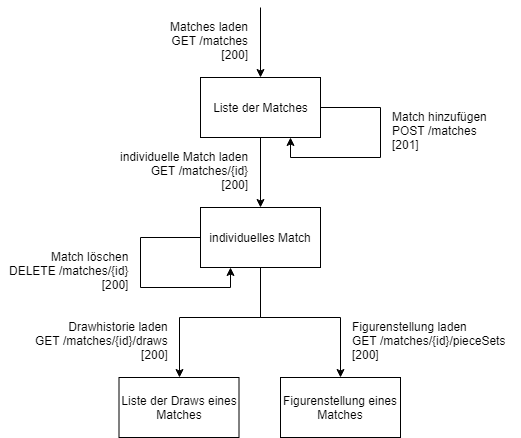
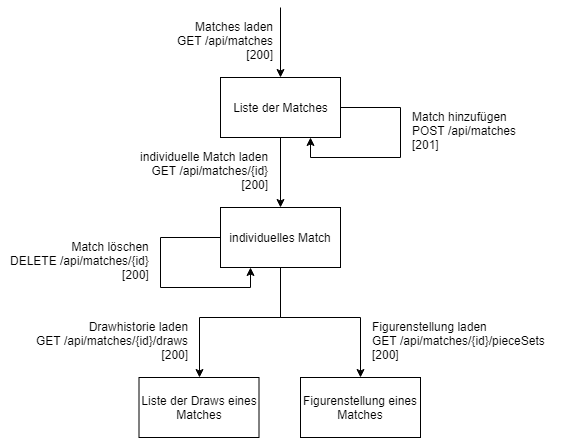
Replace controller images (replace URIs) + Fix chapter references

diff --git a/doc/diploma/content/4-Konception-Server.tex b/doc/diploma/content/4-Konception-Server.tex
@@ -36,11 +36,11 @@ Die einzelnen Zugriffe auf die Ressourcen werden in den \hyperref[sec:rootContro
 Etwaige Requestparameter sollen in dem Format \gls{JSON} oder x-www-form-urlencode mitgeschickt werden können. Die gesendeten Anfragen sollen ihr Feedback je nach Wunsch, via Content Negotiation, entweder in \gls{JSON} oder in \gls{XML} zurücksenden. Dabei sollen drei Strategien bereitgestellt werden, entweder mittels Suffix, einem URL-Parameter oder dem \gls{HTTP} Accept-Header. 
 
 \subsection{Root Controller}\label{sec:rootController}
-Mithilfe des Root Controllers soll der Einstiegspunkt an der \gls{URI} \code{/api} bereitgestellt werden. Ein GET-Request an diesem Einstiegspunkt soll aber ausschließlich die Links der einzelnen Ressourcenpunkte zurückgeben, welche wiederum der Umsetzung des Konzeptes HATEOAS dienen sollen. Im \hyperref[sec:konceptHATEOAS]{Kapitel~\ref{sec:konceptHATEOAS}} wird dabei genauer Definiert wie das Ziel von HATEOAS erreicht werden soll.\\
+Mithilfe des Root Controllers soll der Einstiegspunkt an der \gls{URI} \code{/api} bereitgestellt werden. Ein GET-Request an diesem Einstiegspunkt soll aber ausschließlich die Links der einzelnen Ressourcenpunkte zurückgeben, welche wiederum der Umsetzung des Konzeptes HATEOAS dienen sollen. Im \hyperref[sec:konzeptHATEOAS]{Kapitel~\ref{sec:konzeptHATEOAS}} wird dabei genauer Definiert wie das Ziel von HATEOAS erreicht werden soll.\\
 \\
-Die \hyperref[fig:rootController]{Abbildung~\ref{fig:rootController}} soll als Veranschaulichung des Einstiegspunktes dienen.
+Die nachfolgende \hyperref[fig:rootController]{Abbildung~\ref{fig:rootController}} soll dabei als Veranschaulichung des Einstiegspunktes dienen.
 \begin{figure}[htb]
-	\includegraphics[width=0.28\textwidth]{images/root-controller.png}
+	\includegraphics[width=0.266\textwidth]{images/root-controller.png}
 	\caption{Root Controller - Übersicht der Einstiegspunkte}
 	\label{fig:rootController}
 \end{figure}
@@ -54,7 +54,7 @@ Am zweiten Einstiegspunkt soll ein einzelner existierender Player über einen GE
 \\
 Für ein besseres Verständnis bietet die \hyperref[fig:playerController]{Abbildung~\ref{fig:playerController}} eine visuelle Verdeutlichung der Einstiegspunkte des Player Controllers.
 \begin{figure}[htb]
-	\includegraphics[width=0.7\textwidth]{images/player-controller.png}
+	\includegraphics[width=0.672\textwidth]{images/player-controller.png}
 	\caption{Player Controller - Übersicht der Einstiegspunkte}
 	\label{fig:playerController}
 \end{figure}
@@ -84,7 +84,7 @@ Am ersten Einstiegspunkt soll wieder das bereitstellen einer Liste mittels GET- 
 \\
 Wie in den vorherigen Kapiteln bietet die \hyperref[fig:drawController]{Abbildung~\ref{fig:drawController}} ein Veranschaulichung.
 \begin{figure}[htb]
-	\includegraphics[width=0.54\textwidth]{images/draw-controller.png}
+	\includegraphics[width=0.637\textwidth]{images/draw-controller.png}
 	\caption{Draw Controller - Übersicht der Einstiegspunkte}
 	\label{fig:drawController}
 \end{figure}
@@ -92,7 +92,7 @@ Wie in den vorherigen Kapiteln bietet die \hyperref[fig:drawController]{Abbildun
 \subsection{Error Controller}\label{sec:errorController}
 Mithilfe des Error Controllers soll gewährleistet werden, dass alle nicht in der \gls{REST}-\gls{API} definierten Einstiegspunkte, bzw. nicht definierte Request-Methoden an den Einstiegspunkten abgefangen werden. Tritt so ein Fall auf soll eine \code{BadRequestException} vom Server zurückgegeben werden. Somit wird verhindert das ein Nutzer des \gls{API} einen Serverfehler, mit dem HTTP-Statuscode \code{500}\footnote{siehe \cite[A.2.5]{kretzschmar}} zurückerhält.
 
-\section{Erreichung des Designkonzepts HATEOAS}\label{sec:konceptHATEOAS}
+\section{Erreichung des Designkonzepts HATEOAS}\label{sec:konzeptHATEOAS}
 Um das Ziel der Selbstbeschreibung, welches das Konzept HATEOAS verfolgt, zu erreichen, gibt es mehrere Lösungswege.\\
 \\
 Zum einen besteht die Möglichkeit der Erweiterung einer Ressource, wodurch diese als Hypermedia Format angesehen werden kann. Ein Beispiel dafür ist die \gls{HAL} welche in der Spezifikation \cite{halSpezification} definiert wurde. Diese stellt mithilfe eines Dialektes der \gls{JSON} den \gls{MIME}-Type \code{application/hal+json} bzw. \code{application/hal+xml} bereit, wodurch Ressourcen mit Relationen, in Form von Hyperlinks, ergänzt werden können.\\
